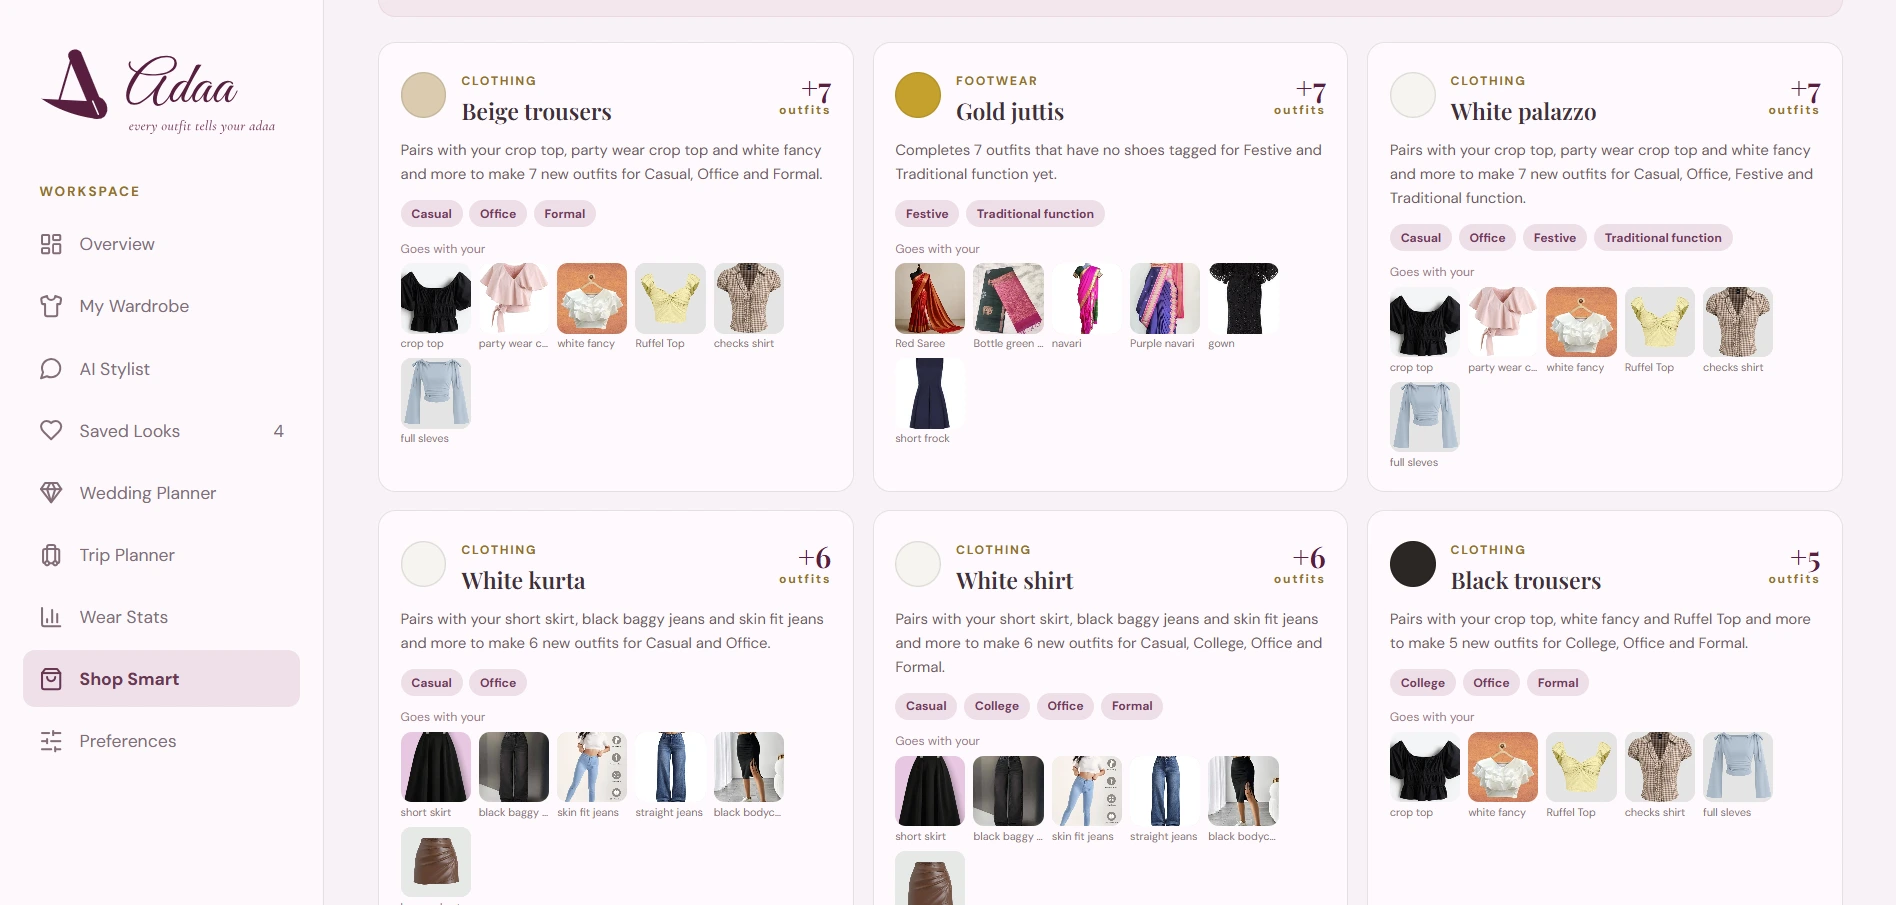
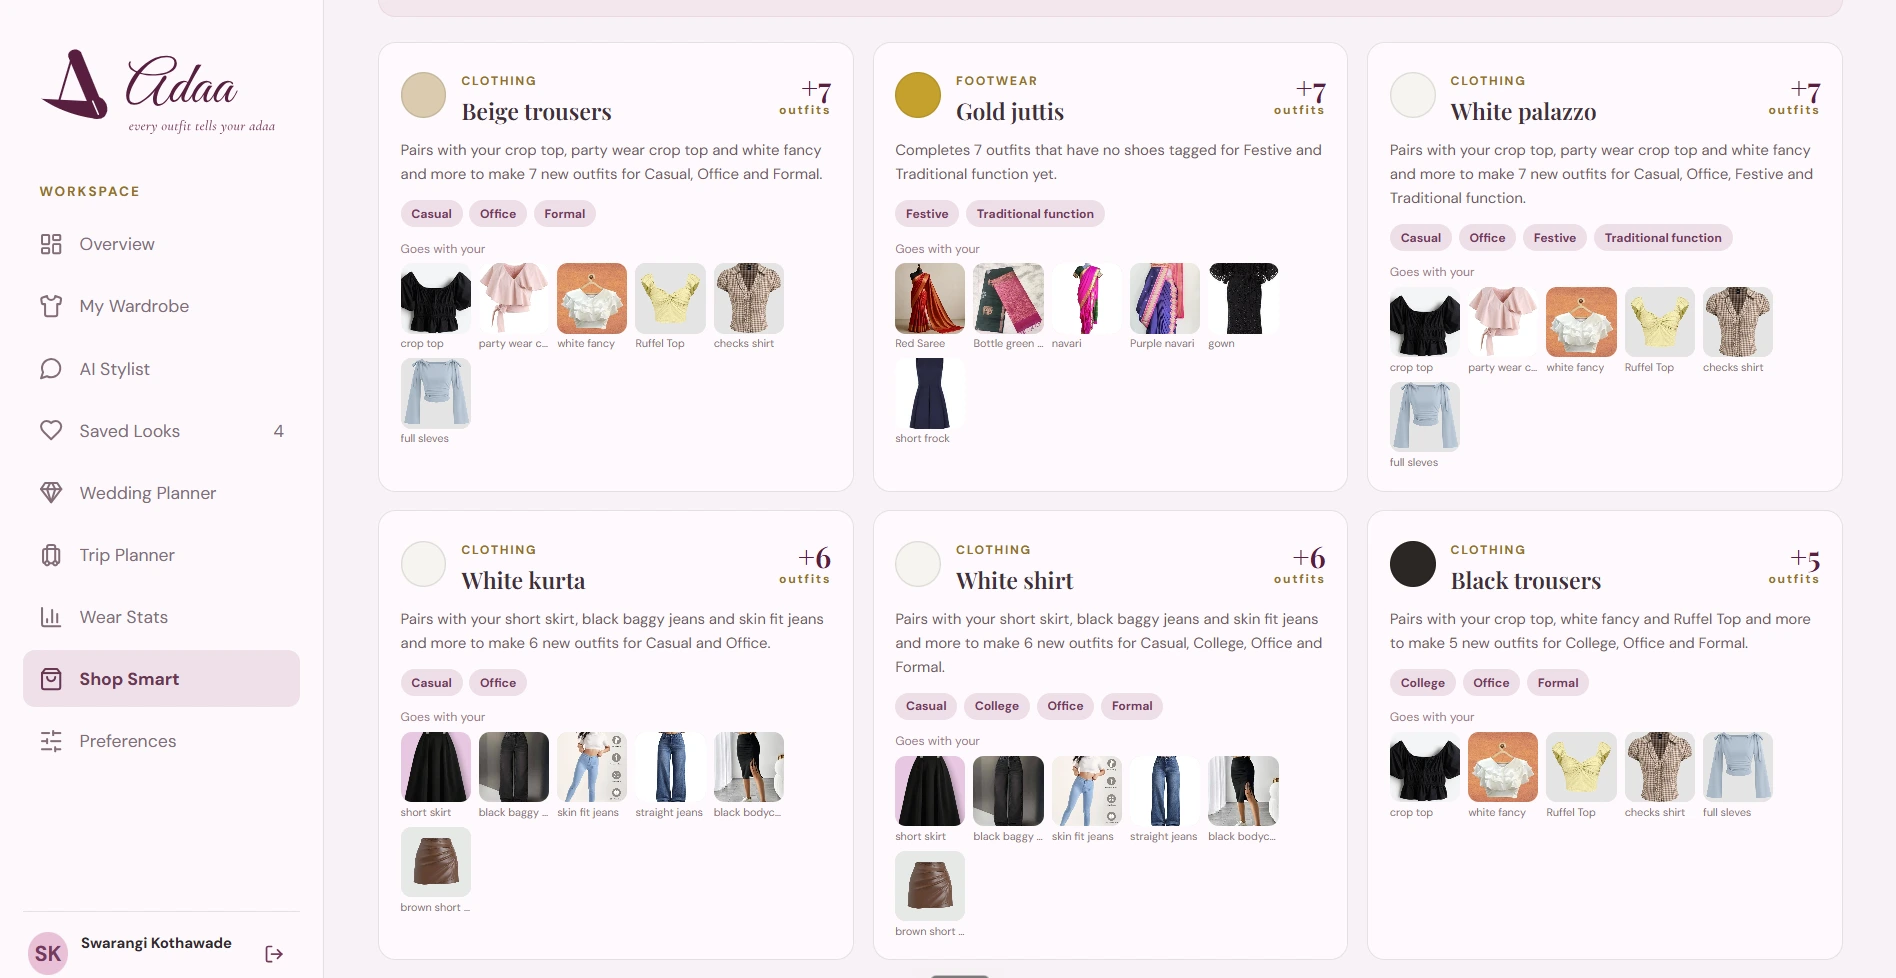
Screenshots: keep the author's name in the sidebar, hide only the email

diff --git a/docs/TESTING.md b/docs/TESTING.md
@@ -356,7 +356,7 @@ On a copy of the real wardrobe (backend 8011, Vite 5181), then the built app ser
 
 | Check | Result |
 |---|---|
-| Screenshots in `docs/screenshots/` are the author's own captures of the real app; the sidebar account line (email) and an old header label were cropped out, nothing else edited | ✅ |
+| Screenshots in `docs/screenshots/` are the author's own captures of the real app; the email under the name in the sidebar was covered and an old header label cropped out; the name is kept, nothing else edited | ✅ |
 | "Prototype mode" label removed; sign-up and log-in fields start empty with neutral hints ("Type your name"…); no personal details in placeholders or test data | ✅ |
 | MIT `LICENSE` added; README explains that downloaded AI models keep their own licences | ✅ |
 | Every page loads after the review changes (Overview, My Wardrobe, AI Stylist, Saved Looks, Wedding Planner, Trip Planner, Wear Stats, Shop Smart, Preferences) | ✅ |
